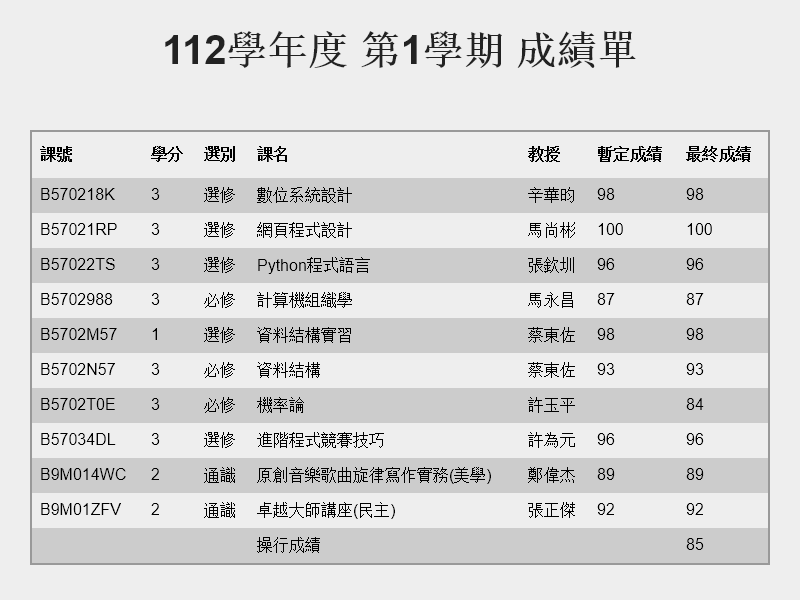
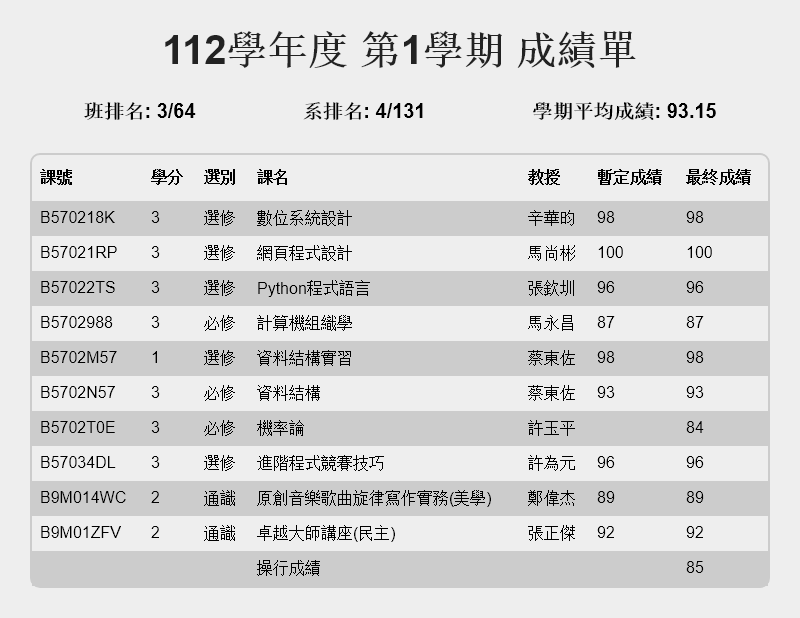
Fix bugs and upgrade get_semester and get_score

diff --git a/Myscore.html b/Myscore.html
@@ -16,10 +16,12 @@
             color: #222222;
         }
         table {
-            border-collapse: collapse;
+            border-collapse: separate;
+            border-spacing: 0;
+            border-radius: 10px;
             width: 100%;
             margin: 30px;
-            border: 2px solid #999999;
+            border: 2px solid #CCCCCC;
         }
         th, td {
             text-align: left;
@@ -37,11 +39,27 @@
             margin: 0;
             padding: 0px;
         }
+        .info-bar {
+            display: flex;
+            justify-content: space-around;
+            margin: 20px 30px;
+            margin-bottom: 0px;
+        }
+        .info-item {
+            font-weight: bolder;
+            font-size: 20px;
+        }
         </style>
     </head>
     <body>
     
         <h1>112學年度 第1學期 成績單</h1>
+    
+    <div class="info-bar">
+        <span class="info-item">班排名: 3/64</span>
+        <span class="info-item">系排名: 4/131</span>
+        <span class="info-item">學期平均成績: 93.15</span>
+    </div>
     
         <div id="score-table">
         <table>

diff --git a/main.py b/main.py
@@ -35,7 +35,7 @@ api_token = os.getenv("API_TOKEN")
 # Defining stages of the conversation
 GET_USERNAME, GET_PASSWORD, SUBMIT_PASSWORD, LOGIN ,CONFIRM_PASSWORD,PROCESS_SEMESTER,MENU= range(7)
 # Callback data
-START, BACK_TO_USERNAME, CONFIRM_LOGIN, BACK_TO_PASSWORD, GET_SEMESTER,GET_SCORE,GET_SCHEDULE, LOGOUT = range(8)
+START, BACK_TO_USERNAME, CONFIRM_LOGIN, BACK_TO_PASSWORD, GET_SEMESTER,GET_SCORE,GET_SCHEDULE, LOGOUT = range(8,16)
 
 def browsereOptions():
     option = webdriver.ChromeOptions()
@@ -112,15 +112,13 @@ async def login_confirm(update: Update, context: ContextTypes.DEFAULT_TYPE) -> i
 async def menu(update: Update, context: ContextTypes.DEFAULT_TYPE) -> int:
     print("menu")
     keyboard = [
-        [InlineKeyboardButton("查詢成績", callback_data=str(GET_SCORE))],
         [InlineKeyboardButton("查詢課表", callback_data=str(GET_SCHEDULE))],
+        [InlineKeyboardButton("查詢成績", callback_data=str(GET_SCORE))],
         [InlineKeyboardButton("登出教學務系統", callback_data=str(LOGOUT))],
     ]
     reply_markup = InlineKeyboardMarkup(keyboard)
     query = update.callback_query
-    print("MENU: query: ",query)
     if query:
-        # print("query.data: ",query.data)
         await query.answer()
         await query.message.reply_text(text="已登入教學務系統，請選擇：", reply_markup=reply_markup)
 
@@ -162,11 +160,27 @@ async def get_score(update: Update, context: ContextTypes.DEFAULT_TYPE) -> int:
     html_content += f"""
         <h1>{querySem[:3]}學年度 第{querySem[3]}學期 成績單</h1>
     """
+    
+    cnt=0
+    classRank="X"
+    departmentRank="X"
+    semesterAverageGrade="X"
+    if len(data[-1]):
+        departmentRank=data[-1]
+    if len(data[-2]):
+        classRank=data[-2]
+    if len(data[-3]):
+        semesterAverageGrade=data[-3]
+    html_content += f"""
+    <div class="info-bar">
+        <span class="info-item">班排名: {classRank}</span>
+        <span class="info-item">系排名: {departmentRank}</span>
+        <span class="info-item">學期平均成績: {semesterAverageGrade}</span>
+    </div>
+    """
     html_content += scoreTable_table
     for item in data:
         if not isinstance(item, dict):
-            print("item is not dict")
-            print("item is : ",item)
             continue  # 如果不是字典，跳过此次循环
         html_content += f"""
             <tr>
@@ -211,7 +225,6 @@ async def take_screenshot(html, path_to_save):
 
 async def get_schedule(update: Update, context: ContextTypes.DEFAULT_TYPE) -> int:
     print("get_schedule")
-    # querySem = update.message.text.strip() 
     querySem = context.user_data['semester']
     print("querySem: ",querySem)
     await update.message.reply_text(text="處理中...")
@@ -264,12 +277,8 @@ def main() -> None:
             ],
             MENU: [
                 CallbackQueryHandler(menu, pattern="^" + str(MENU) + "$"),
-                # MessageHandler(filters.TEXT & ~filters.COMMAND, get_score),
-                # CallbackQueryHandler(get_semester, pattern="^" + str(GET_SCHEDULE) + "$"),
-                # CallbackQueryHandler(get_semester, pattern="^" + str(GET_SCORE) + "$"),
-                CallbackQueryHandler(get_semester, pattern="(^" + str(GET_SCORE) + "$)|(^" + str(GET_SCHEDULE) + "$)"),
-                # CallbackQueryHandler(get_semester, pattern=f"^({str(GET_SCORE)}|{str(GET_SCHEDULE)})$"),
-                # CallbackQueryHandler(get_semester, pattern="^(" + str(GET_SCORE) + "|" + str(GET_SCHEDULE) + ")$"),
+                CallbackQueryHandler(get_semester, pattern="^" + str(GET_SCORE) + "$"),
+                CallbackQueryHandler(get_semester, pattern="^" + str(GET_SCHEDULE) + "$"),
                 CallbackQueryHandler(logout, pattern="^" + str(LOGOUT) + "$"),
             ]
         },

diff --git a/html_content.py b/html_content.py
@@ -16,10 +16,12 @@ scoreTable_head = """
             color: #222222;
         }
         table {
-            border-collapse: collapse;
+            border-collapse: separate;
+            border-spacing: 0;
+            border-radius: 10px;
             width: 100%;
             margin: 30px;
-            border: 2px solid #999999;
+            border: 2px solid #CCCCCC;
         }
         th, td {
             text-align: left;
@@ -36,6 +38,16 @@ scoreTable_head = """
             display: flex;
             margin: 0;
             padding: 0px;
+        }
+        .info-bar {
+            display: flex;
+            justify-content: space-around;
+            margin: 20px 30px;
+            margin-bottom: 0px;
+        }
+        .info-item {
+            font-weight: bolder;
+            font-size: 20px;
         }
         </style>
     </head>
